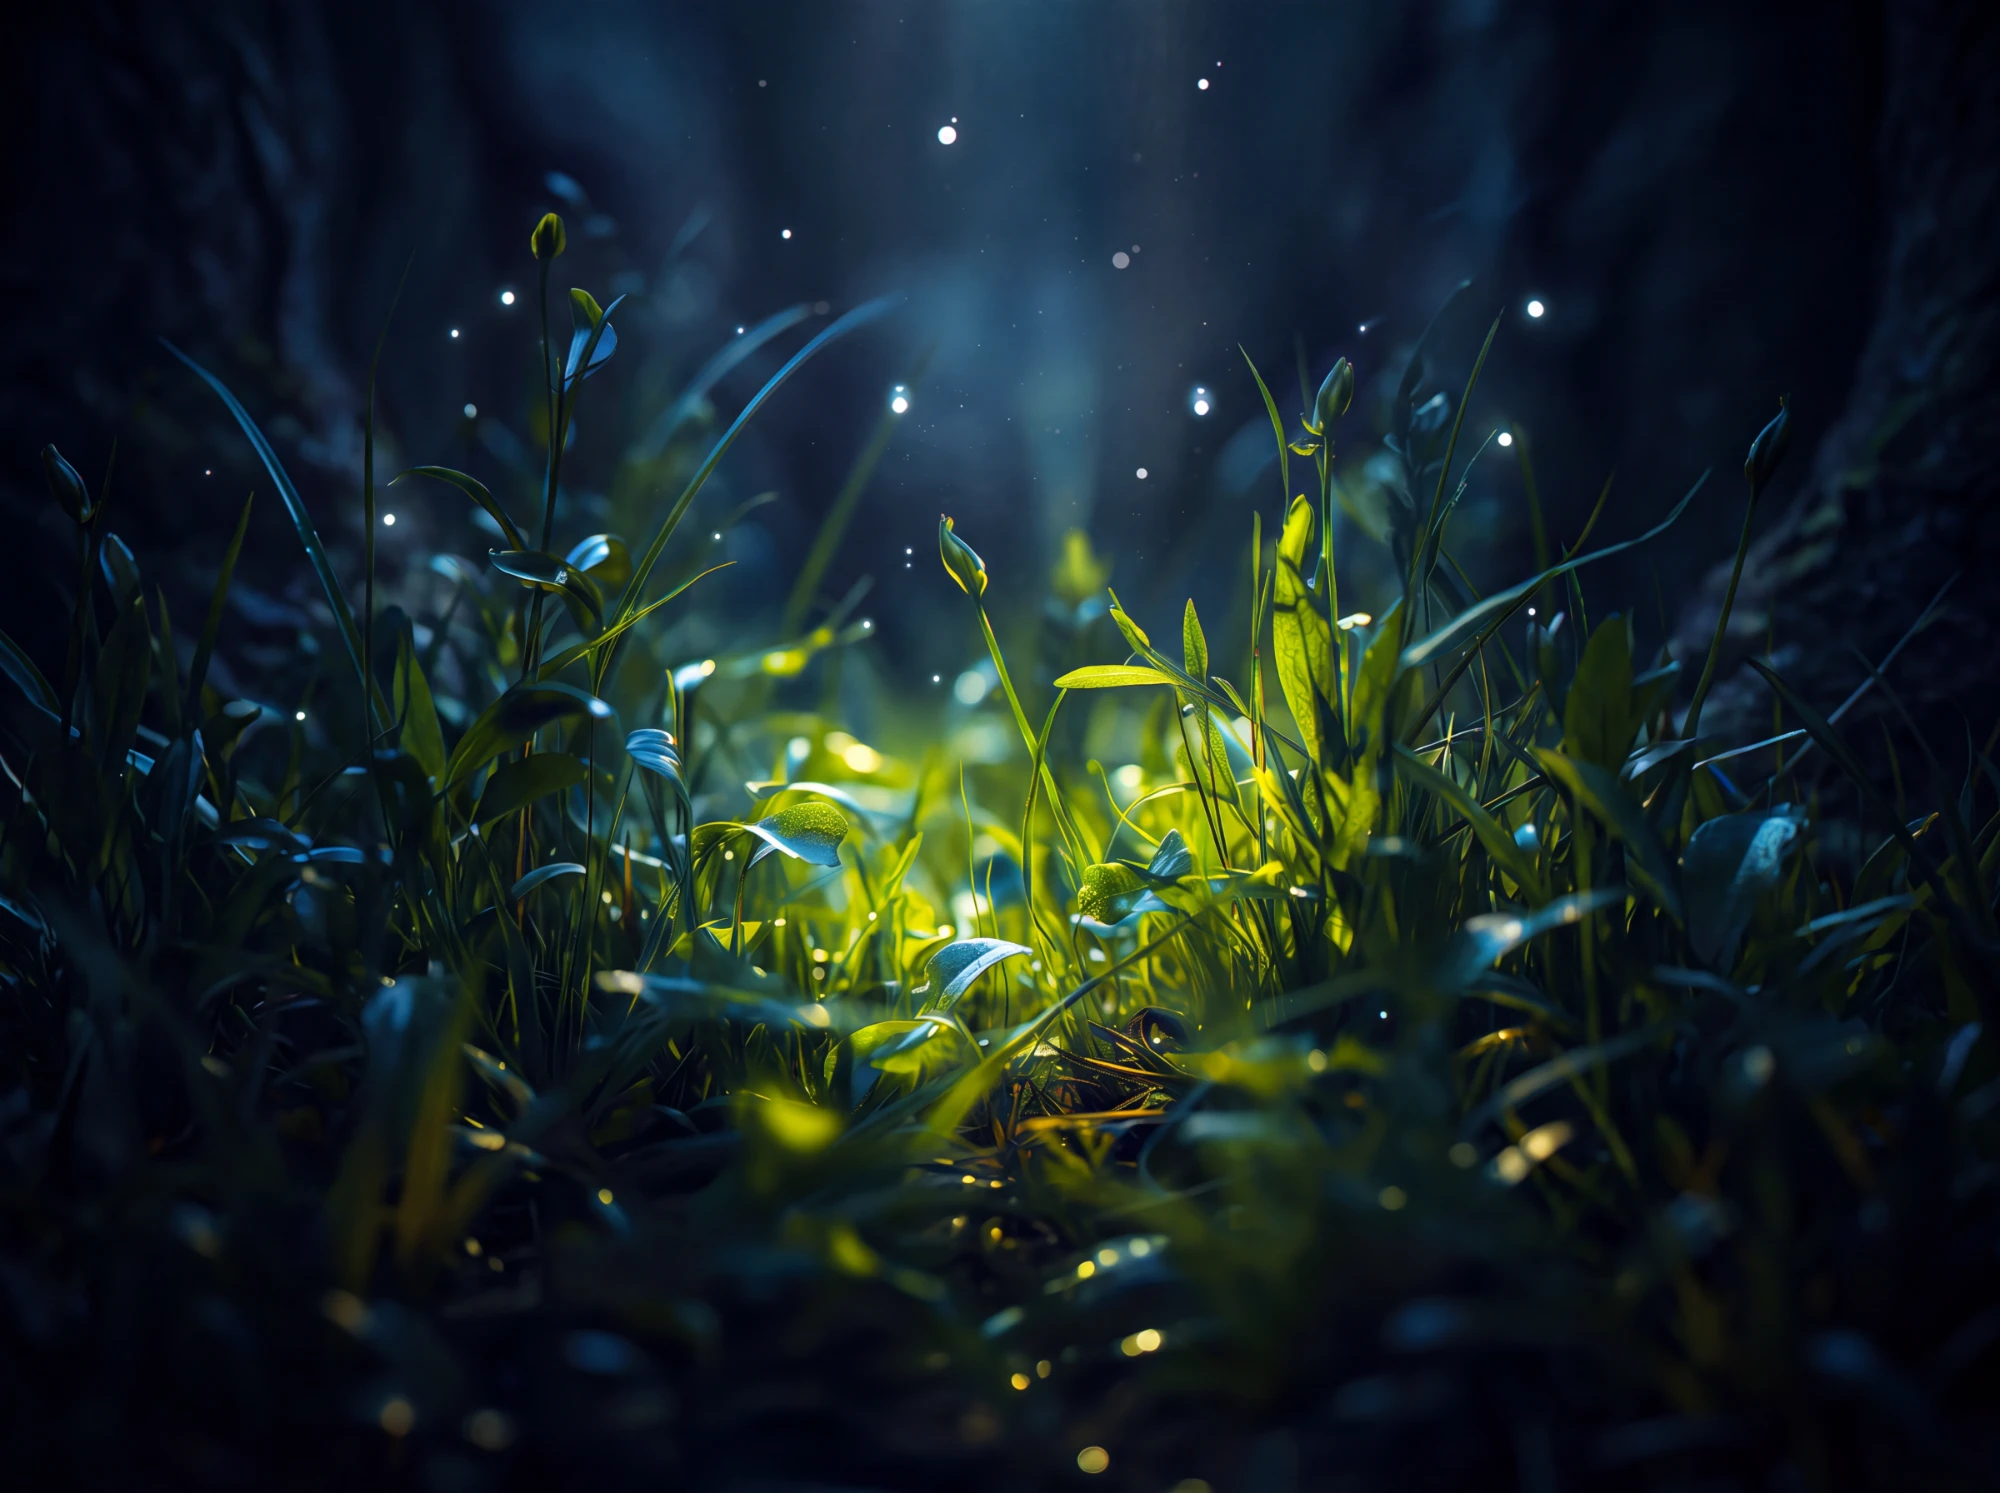
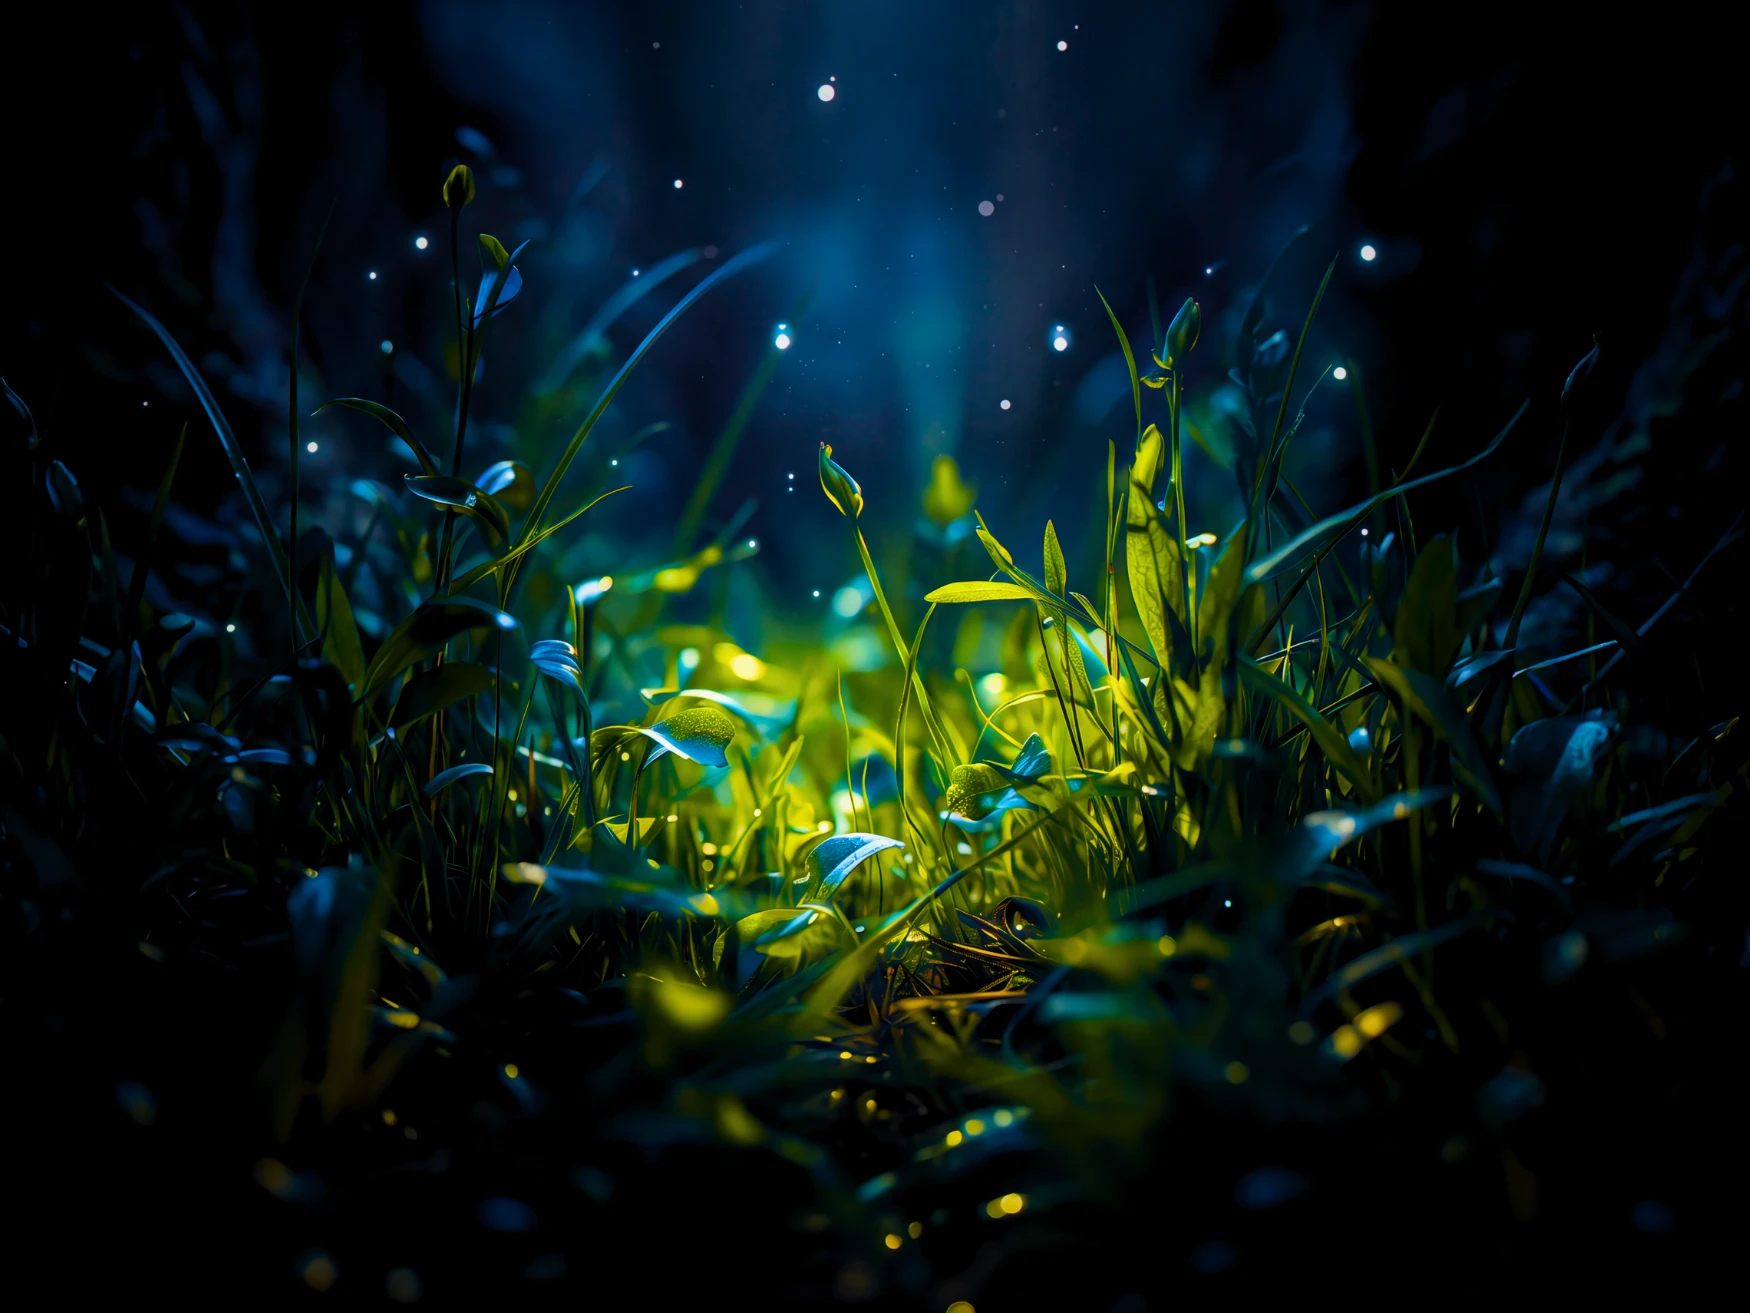
feat(v3): sharper hero backdrop, taller hero, lighter scrim
- Replace the homepage hero background with the newer, sharper artwork
  (1750×1313 webp, self-hosted — CSP-safe).
- Make the hero taller so the image isn't letterboxed: the content band is now
  min-h 85vh (90vh on desktop), vertically centred.
- Reduce the scrim tint over the image (left wash 0.92→0.70, top 0.72→0.50, and
  lighter mid-stops) so the artwork reads clearly while the headline/CTAs keep
  enough contrast on the darker left side.

Verified: prettier, 59 web unit tests, next build; captured desktop + mobile.

Claude-Session: https://claude.ai/code/session_01DCDCvWuPiWJFHkD28bhX8t

diff --git a/apps/web/src/components/HomeHeroBackdrop.tsx b/apps/web/src/components/HomeHeroBackdrop.tsx
@@ -43,10 +43,11 @@ export function HomeHeroBackdrop() {
         className="absolute inset-0"
         style={{
           background: [
-            // Horizontal: dark under the left-hand copy, opening up over the glow.
-            'linear-gradient(90deg, rgba(9,9,10,0.92) 0%, rgba(9,9,10,0.66) 30%, rgba(9,9,10,0.22) 56%, rgba(9,9,10,0.5) 100%)',
+            // Horizontal: lightly dark under the left-hand copy, opening up over the glow
+            // (kept just enough for headline contrast — the artwork stays clearly visible).
+            'linear-gradient(90deg, rgba(9,9,10,0.7) 0%, rgba(9,9,10,0.38) 32%, rgba(9,9,10,0.06) 58%, rgba(9,9,10,0.28) 100%)',
             // Vertical: soften the top under the header, fade the foot into the page base.
-            'linear-gradient(180deg, rgba(9,9,10,0.72) 0%, rgba(9,9,10,0) 26%, rgba(9,9,10,0) 52%, #09090a 100%)',
+            'linear-gradient(180deg, rgba(9,9,10,0.5) 0%, rgba(9,9,10,0) 22%, rgba(9,9,10,0) 62%, #09090a 100%)',
           ].join(','),
         }}
       />

diff --git a/apps/web/src/app/page.tsx b/apps/web/src/app/page.tsx
@@ -92,7 +92,7 @@ export default async function HomePage() {
         />
         {/* V3 cinematic image backdrop — gated on v3VisualArchitecture, CSP-safe (self). */}
         <HomeHeroBackdrop />
-        <div className="container-wide relative py-20 sm:py-28 lg:py-32">
+        <div className="container-wide relative flex min-h-[85vh] flex-col justify-center py-20 sm:py-24 lg:min-h-[90vh]">
           <div className="grid items-center gap-12 lg:grid-cols-[1.05fr_0.95fr]">
             {/* Left — editorial copy */}
             <div>
